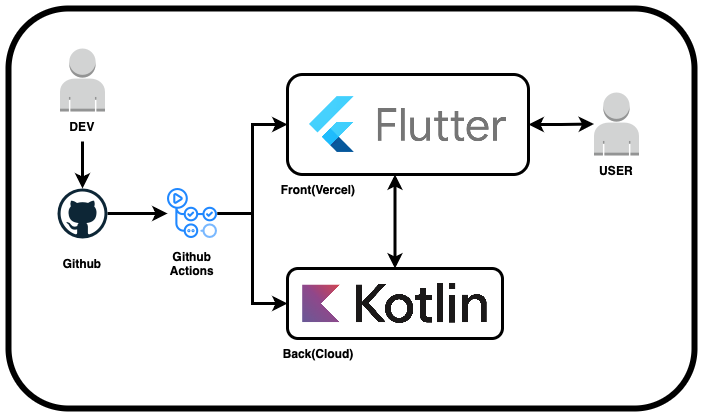
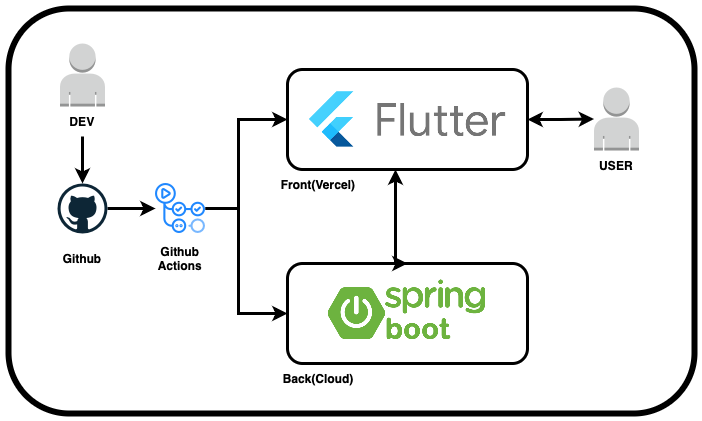
docs: 아키텍처 이미지 변경 및 README 수정

diff --git a/README.md b/README.md
@@ -1,20 +1,12 @@
 # 🏝 제주 청년 갭이어 프로젝트
 
-<!--
 ## 👥 팀 소개
-**서비스명**: 
+**서비스명**: ✨일하영(제주 청년–자영업자 일거리 연결 플랫폼)
 
- **팀원**:
-- **이기연** (기획 / 백엔드 개발)
-  - 
-  -
-- **박경덕** (기획 / 백엔드 개발)
-  - 
-  -
-- **정가연** (기획 / 프론트엔드 개발)
-  - 
-  - 
--->
+ **[팀원]**
+> - **이기연** (Infra)
+> - **박경덕** (Backend)
+> - **정가연** (Frontend / Design)
 
 ---
 
@@ -40,10 +32,10 @@
 ---
 
 ## 🧱 소프트웨어 아키텍처 구성
-- **프론트엔드**: React
+- **프론트엔드**: Flutter
 - **백엔드**: Kotlin spring
 - **DB**: 개발 초기는 NoSQL 사용, 추후 서비스 배포 시 관계형 DB로 전환
-- **CI/CD**: GitHub Actions (자동 배포), Vercel
+- **CI/CD**: GitHub Actions (자동 배포), Vercel, Cloud
 - **디자인**: Figma (프로토타입 및 사용자 흐름 설계)
 
 ---
